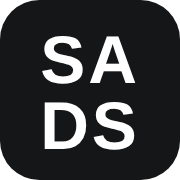
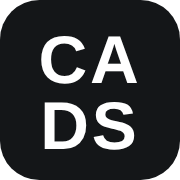
Nuevo nombre: CADS · Centro de Atención de Solicitudes
Título, acróstico del login, encabezado, ícono CA/DS (SVG, PNG e ICO), manifiesto de la app,
sugerencia de instalación, README y guion de los videos.

Claude-Session: https://claude.ai/code/session_012YEYniGMLC45RanscBTHrE

diff --git a/web/js/instalar.js b/web/js/instalar.js
@@ -1,6 +1,6 @@
-// Sugerencia «Instalar SADS»: Chrome/Edge (Android y computadora) muestran su instalador; en iPhone/iPad
+// Sugerencia «Instalar CADS»: Chrome/Edge (Android y computadora) muestran su instalador; en iPhone/iPad
 // se explican los pasos de Safari (Apple no permite el botón). Si la persona dice «Ahora no», vuelve en 30 días.
-const CLAVE = 'sads:instalar-pospuesto';
+const CLAVE = 'cads:instalar-pospuesto';
 const DIAS = 30;
 let evento = null;            // beforeinstallprompt guardado para usarlo cuando la persona toque «Instalar»
 let alAparecer = null;
@@ -28,7 +28,7 @@ export function sugerirInstalacion() {
   const pintar = (html, alInstalar) => {
     quitar();
     const caja = document.createElement('aside');
-    caja.id = 'sugerir-instalar'; caja.className = 'sugerir-instalar'; caja.setAttribute('role', 'dialog'); caja.setAttribute('aria-label', 'Instalar SADS');
+    caja.id = 'sugerir-instalar'; caja.className = 'sugerir-instalar'; caja.setAttribute('role', 'dialog'); caja.setAttribute('aria-label', 'Instalar CADS');
     caja.innerHTML = `${LOGO}<div class="si-texto">${html}</div>
       <div class="si-botones">${alInstalar ? '<button class="btn btn-chico" id="si-instalar">Instalar</button>' : ''}<button class="btn btn-sec btn-chico" id="si-no">${alInstalar ? 'Ahora no' : 'Entendido'}</button></div>`;
     document.body.appendChild(caja);
@@ -37,7 +37,7 @@ export function sugerirInstalacion() {
   };
   if (evento) {
     const movil = matchMedia('(pointer: coarse)').matches;
-    pintar(`<b>Instala SADS</b><span>${movil ? 'Tenlo en tu pantalla de inicio y ábrelo con un toque, como una app.' : 'Ábrelo desde tu escritorio o barra de tareas, como un programa.'}</span>`, async () => {
+    pintar(`<b>Instala CADS</b><span>${movil ? 'Tenlo en tu pantalla de inicio y ábrelo con un toque, como una app.' : 'Ábrelo desde tu escritorio o barra de tareas, como un programa.'}</span>`, async () => {
       const e = evento; evento = null;
       e.prompt();
       const r = await e.userChoice.catch(() => ({ outcome: 'dismissed' }));
@@ -45,7 +45,7 @@ export function sugerirInstalacion() {
       quitar();
     });
   } else if (esIOS() && esSafari()) {
-    pintar(`<b>Agrega SADS a tu pantalla de inicio</b><span>Toca ${COMPARTIR} <b>Compartir</b> abajo y luego <b>«Agregar a pantalla de inicio»</b>.</span>`, null);
+    pintar(`<b>Agrega CADS a tu pantalla de inicio</b><span>Toca ${COMPARTIR} <b>Compartir</b> abajo y luego <b>«Agregar a pantalla de inicio»</b>.</span>`, null);
   } else {
     alAparecer = () => { alAparecer = null; sugerirInstalacion(); };   // Chrome avisa un poco después de cargar
   }

diff --git a/web/styles.css b/web/styles.css
@@ -1,4 +1,4 @@
-/* SADS · Sistema de Atención de Solicitudes (Prosein · Austral · Mil Cerámicas).
+/* CADS · Centro de Atención de Solicitudes (Prosein · Austral · Mil Cerámicas).
    Marca en negro (neutral para las tres empresas); el rojo queda solo para errores y rechazos. */
 :root {
   --marca: #141618; --marca-hondo: #000000; --marca-2: #2A2D31; --marca-velo: #ECEDEE;
@@ -144,7 +144,7 @@ dialog form { display: grid; gap: var(--s4); }
 @keyframes brillo { 0% { background-position: 100% 50%; } 100% { background-position: 0 50%; } }
 @media (prefers-reduced-motion: reduce) { .esq-tarjeta span { animation: none; } }
 
-/* ================= SADS: encabezado, entrada y vista de computadora ================= */
+/* ================= CADS: encabezado, entrada y vista de computadora ================= */
 .marca b { display: block; font-size: 20px; letter-spacing: .12em; }
 .marca small { font-weight: 400; opacity: .7; letter-spacing: 0; }
 .cabecera-der { display: flex; align-items: center; gap: var(--s3); }
@@ -211,11 +211,11 @@ body.en-entrada .contenedor { max-width: none; padding: 0; margin: 0; }
 .pestanas .lateral-titulo { display: none; }
 @media (min-width: 1024px) { .layout .pestanas .lateral-titulo { display: block; } }
 
-/* ---- Logo del sistema (SA/DS) ---- */
+/* ---- Logo del sistema (CA/DS) ---- */
 .marca { display: flex; align-items: center; gap: var(--s3); }
 .marca-logo { width: 36px; height: 36px; border-radius: 9px; flex: none; }
 
-/* ---- Sugerencia «Instalar SADS» ---- */
+/* ---- Sugerencia «Instalar CADS» ---- */
 .sugerir-instalar { position: fixed; z-index: 20; left: var(--s3); right: var(--s3); bottom: calc(var(--s3) + env(safe-area-inset-bottom));
   display: grid; grid-template-columns: auto 1fr; gap: var(--s3); align-items: center; background: #fff; border: 1px solid var(--linea);
   border-radius: var(--radio); padding: var(--s4); box-shadow: 0 12px 40px rgb(20 22 24 / .18); animation: subir 260ms var(--ease); }

diff --git a/web/index.html b/web/index.html
@@ -5,12 +5,12 @@
   <meta name="viewport" content="width=device-width, initial-scale=1, viewport-fit=cover">
   <meta name="theme-color" content="#141618">
   <meta name="robots" content="noindex">
-  <title>SADS · Sistema de Atención de Solicitudes</title>
+  <title>CADS · Centro de Atención de Solicitudes</title>
   <link rel="icon" href="assets/favicon.svg" type="image/svg+xml">
   <link rel="icon" href="assets/favicon-32.png" sizes="32x32" type="image/png">
   <link rel="apple-touch-icon" href="assets/apple-touch-icon.png">
   <link rel="manifest" href="manifest.webmanifest">
-  <meta name="apple-mobile-web-app-title" content="SADS">
+  <meta name="apple-mobile-web-app-title" content="CADS">
   <link rel="preconnect" href="https://fonts.googleapis.com">
   <link rel="preconnect" href="https://fonts.gstatic.com" crossorigin>
   <link rel="stylesheet" href="https://fonts.googleapis.com/css2?family=Poppins:wght@400;500;600;700&display=swap">
@@ -24,7 +24,7 @@
 <body>
   <header class="cabecera">
     <div class="cabecera-in">
-      <div class="marca"><img class="marca-logo" src="assets/logo-sads-claro.svg" alt="" width="36" height="36"><div><b>SADS</b><small>Sistema de Atención de Solicitudes</small></div></div>
+      <div class="marca"><img class="marca-logo" src="assets/logo-cads-claro.svg" alt="" width="36" height="36"><div><b>CADS</b><small>Centro de Atención de Solicitudes</small></div></div>
       <div class="cabecera-der"><span id="usuario" class="usuario"></span><button id="btn-salir" class="btn-salir" type="button" hidden>Salir</button></div>
     </div>
   </header>

diff --git a/web/js/app.js b/web/js/app.js
@@ -48,11 +48,11 @@ function vistaLogin() {
     <div class="entrada">
       <section class="entrada-marca">
         <div>
-          <div class="sigla">SADS</div>
-          <p class="nombre">Sistema de Atención de Solicitudes</p>
+          <div class="sigla">CADS</div>
+          <p class="nombre">Centro de Atención de Solicitudes</p>
         </div>
-        <div class="acrostico" role="img" aria-label="SADS: Sistema de Atención de Solicitudes">
-          <p><b>S</b>istema<span class="de">de</span></p><p><b>A</b>tención</p><p><b>D</b>e</p><p><b>S</b>olicitudes</p>
+        <div class="acrostico" role="img" aria-label="CADS: Centro de Atención de Solicitudes">
+          <p><b>C</b>entro<span class="de">de</span></p><p><b>A</b>tención</p><p><b>D</b>e</p><p><b>S</b>olicitudes</p>
         </div>
         <p class="empresas">Prosein · Austral · Mil Cerámicas — Gestión Humana</p>
       </section>

diff --git a/web/sw.js b/web/sw.js
@@ -1,6 +1,6 @@
-// Service worker de SADS: permite instalar el sitio como app. Siempre pide la versión nueva a la red
+// Service worker de CADS: permite instalar el sitio como app. Siempre pide la versión nueva a la red
 // (así nunca se queda una versión vieja) y solo usa la copia guardada si no hay conexión.
-const CACHE = 'sads-v1';
+const CACHE = 'cads-v1';
 self.addEventListener('install', () => self.skipWaiting());
 self.addEventListener('activate', (e) => e.waitUntil(clients.claim()));
 self.addEventListener('fetch', (e) => {

diff --git a/docs/videos/GUION-VIDEOS-CADS.md b/docs/videos/GUION-VIDEOS-CADS.md
@@ -1,8 +1,8 @@
-# Guion · Videos explicativos de SADS
+# Guion · Videos explicativos de CADS
 
 Cuatro videos de motion graphics para los colaboradores:
 
-1. **SADS en general** (unos 2 minutos)
+1. **CADS en general** (unos 2 minutos)
 2. **Constancia de trabajo** (unos 2 minutos)
 3. **Vacaciones** (unos 3 minutos; incluye la parte del jefe directo)
 4. **Fideicomiso: anticipos** (unos 2½ minutos)
@@ -11,26 +11,26 @@ Cuatro videos de motion graphics para los colaboradores:
 - Copia **solo el bloque «Texto para la voz»** de cada video. Las etiquetas entre corchetes son la emoción con la que debe sonar la frase que sigue: `[tranquilo]`, `[cálido]`, `[serio]`, `[con energía]`, `[animado]`, `[claro y pausado]`, `[con una sonrisa]` y `[pausa corta]`.
 - Genera **un audio por video**. Así es más fácil cortarlo por escenas.
 - **Pronunciación:**
-  - Escribí «Sads» en vez de «SADS» para que no lo deletree ni lo lea en inglés. Si aun así suena raro, prueba con «Sáds».
+  - Escribí «Cads» en vez de «CADS» para que no lo deletree ni lo lea en inglés. Si aun así suena raro, prueba con «Cáds».
   - Los números van en letras para que los lea bien.
 - **Tono:** corporativo, cercano y sin exagerar. Voz recomendada: adulta y clara, de ritmo medio.
 - Debajo de cada texto está el **mapa de escenas**, con lo que se ve en pantalla. Es la guía para cortar el audio y armar las animaciones.
 
 ---
 
-## Video 1 · SADS en general
+## Video 1 · CADS en general
 
 ### Texto para la voz
 
-[cálido] Hola. Te damos la bienvenida a Sads, el Sistema de Atención de Solicitudes de Gestión Humana de Prosein, Austral y Mil Cerámicas.
+[cálido] Hola. Te damos la bienvenida a Cads, el Centro de Atención de Solicitudes de Gestión Humana de Prosein, Austral y Mil Cerámicas.
 
 [tranquilo] A partir de ahora, muchas de las cosas que antes pedías por correo, por mensaje o en papel, las haces tú, desde tu celular o tu computadora, a la hora que te quede mejor.
 
-[serio] ¿Qué puedes hacer en Sads? [pausa corta] Tres cosas.
+[serio] ¿Qué puedes hacer en Cads? [pausa corta] Tres cosas.
 
 [con energía] Uno: descargar tu constancia de trabajo al instante. [pausa corta] Dos: solicitar tus vacaciones y seguir su aprobación paso a paso. [pausa corta] Tres: solicitar un anticipo de tu fideicomiso cuando la solicitud esté abierta.
 
-[tranquilo] Entrar es muy sencillo. Abre el enlace de Sads que te compartió Gestión Humana. Escribe tu número de cédula, solo los números, sin puntos y sin letras, y toca Entrar.
+[tranquilo] Entrar es muy sencillo. Abre el enlace de Cads que te compartió Gestión Humana. Escribe tu número de cédula, solo los números, sin puntos y sin letras, y toca Entrar.
 
 [cálido] No necesitas contraseña. Nada que recordar, nada que recuperar.
 
@@ -38,7 +38,7 @@ Cuatro videos de motion graphics para los colaboradores:
 
 [cálido] Al entrar verás un saludo con tu nombre y tres tarjetas: Constancia de trabajo, Vacaciones y Fideicomiso. Toca la que necesites y el sistema te guía.
 
-[tranquilo] Si lo abres desde el celular, Sads te va a sugerir instalarlo en tu pantalla de inicio. Acepta. Así lo tienes a un toque, como cualquier otra aplicación.
+[tranquilo] Si lo abres desde el celular, Cads te va a sugerir instalarlo en tu pantalla de inicio. Acepta. Así lo tienes a un toque, como cualquier otra aplicación.
 
 [animado] ¿Tienes personas a tu cargo? Entonces verás también la sección Mi equipo, donde apruebas las vacaciones de tu gente.
 
@@ -46,12 +46,12 @@ Cuatro videos de motion graphics para los colaboradores:
 
 [serio] Y si algo no cuadra, por ejemplo, el sistema no encuentra tu cédula o tus días de vacaciones no coinciden, comunícate con Gestión Humana. [cálido] Estamos para ayudarte.
 
-[con una sonrisa] Sads: menos papeles, menos esperas y tus solicitudes siempre a la vista. [tranquilo] En los próximos videos te mostramos cada módulo, paso a paso.
+[con una sonrisa] Cads: menos papeles, menos esperas y tus solicitudes siempre a la vista. [tranquilo] En los próximos videos te mostramos cada módulo, paso a paso.
 
 ### Mapa de escenas
 | # | Frase de inicio | En pantalla |
 |---|---|---|
-| 1 | «Hola. Te damos la bienvenida…» | Fondo negro y aparece SADS en acróstico: **S**istema · **A**tención · **D**e · **S**olicitudes. Debajo: Prosein · Austral · Mil Cerámicas. |
+| 1 | «Hola. Te damos la bienvenida…» | Fondo negro y aparece CADS en acróstico: **C**entro · **A**tención · **D**e · **S**olicitudes. Debajo: Prosein · Austral · Mil Cerámicas. |
 | 2 | «A partir de ahora…» | Íconos de correo, chat y papel que se transforman en un celular y una laptop. |
 | 3 | «¿Qué puedes hacer…?» | Número 3 grande. |
 | 4 | «Uno: descargar…» | Entran las 3 tarjetas una por una: Constancia, Vacaciones, Fideicomiso. |
@@ -59,11 +59,11 @@ Cuatro videos de motion graphics para los colaboradores:
 | 6 | «No necesitas contraseña…» | Candado tachado y un check. |
 | 7 | «Tu cédula es tu llave…» | Llave con forma de cédula y el texto «Cada entrada queda registrada». |
 | 8 | «Al entrar verás…» | Inicio: «Bienvenido, [nombre]…» con las 3 tarjetas. |
-| 9 | «Si lo abres desde el celular…» | Celular con el aviso «Instalar SADS» y el ícono SA/DS en la pantalla de inicio. |
+| 9 | «Si lo abres desde el celular…» | Celular con el aviso «Instalar CADS» y el ícono CA/DS en la pantalla de inicio. |
 | 10 | «¿Tienes personas a tu cargo?» | Menú lateral y aparece «Mi equipo» con un contador. |
 | 11 | «Cuando termines…» | Botón **Salir** resaltado. |
 | 12 | «Y si algo no cuadra…» | Texto «Gestión Humana» con ícono de ayuda. |
-| 13 | «Sads: menos papeles…» | Logo SA/DS y el texto «Próximos videos: Constancia · Vacaciones · Fideicomiso». |
+| 13 | «Cads: menos papeles…» | Logo CA/DS y el texto «Próximos videos: Constancia · Vacaciones · Fideicomiso». |
 
 ---
 
@@ -71,9 +71,9 @@ Cuatro videos de motion graphics para los colaboradores:
 
 ### Texto para la voz
 
-[cálido] ¿Necesitas una constancia de trabajo? En Sads la tienes en menos de un minuto. Te mostramos cómo.
+[cálido] ¿Necesitas una constancia de trabajo? En Cads la tienes en menos de un minuto. Te mostramos cómo.
 
-[claro y pausado] Paso uno. Entra a Sads con tu cédula.
+[claro y pausado] Paso uno. Entra a Cads con tu cédula.
 
 [claro y pausado] Paso dos. En el inicio, toca la tarjeta Constancia de trabajo.
 
@@ -109,7 +109,7 @@ Cuatro videos de motion graphics para los colaboradores:
 | 9 | «¿La perdiste…?» | Botón **Descargar mi constancia vigente**. |
 | 10 | «En la sección Mis constancias…» | Lista con emisión y vencimiento. |
 | 11 | «Si necesitas una antes…» | Constancia que pasa a «Anulada» y luego una nueva. |
-| 12 | «Así de fácil…» | Cierre con el logo SA/DS. |
+| 12 | «Así de fácil…» | Cierre con el logo CA/DS. |
 
 ---
 
@@ -117,9 +117,9 @@ Cuatro videos de motion graphics para los colaboradores:
 
 ### Texto para la voz
 
-[cálido] Planificar tus vacaciones ahora es más fácil. En este video te mostramos cómo solicitarlas en Sads, y cómo las aprueba tu jefe directo.
+[cálido] Planificar tus vacaciones ahora es más fácil. En este video te mostramos cómo solicitarlas en Cads, y cómo las aprueba tu jefe directo.
 
-[claro y pausado] Paso uno. Entra a Sads con tu cédula y toca la tarjeta Vacaciones.
+[claro y pausado] Paso uno. Entra a Cads con tu cédula y toca la tarjeta Vacaciones.
 
 [tranquilo] Lo primero que vas a ver son tus días de vacaciones pendientes. Son los días hábiles que tienes por disfrutar. Más abajo, en Mis días por período, ves el detalle de cada año: cuántos días te corresponden, cuántos disfrutaste y cuántos te quedan.
 
@@ -131,7 +131,7 @@ Cuatro videos de motion graphics para los colaboradores:
 
 [claro y pausado] Paso tres. Escribe cuántos días hábiles quieres disfrutar.
 
-[tranquilo] Solo se cuentan los días hábiles, es decir, sin fines de semana y sin feriados. Al instante, Sads te muestra tu último día de vacaciones y el día en que te reintegras al trabajo.
+[tranquilo] Solo se cuentan los días hábiles, es decir, sin fines de semana y sin feriados. Al instante, Cads te muestra tu último día de vacaciones y el día en que te reintegras al trabajo.
 
 [serio] Recuerda que no puedes pedir más días de los que tienes pendientes. No se adelantan días.
 
@@ -179,7 +179,7 @@ Cuatro videos de motion graphics para los colaboradores:
 | 17 | «Luego, Gestión Humana registra…» | Etiqueta «Registrada». |
 | 18 | «Si una solicitud es rechazada…» | Etiqueta «Rechazada» y los días que regresan. |
 | 19 | «Un detalle importante…» | Aviso: «No tienes jefe directo asignado…». |
-| 20 | «Tus días, tus fechas…» | Cierre con el logo SA/DS. |
+| 20 | «Tus días, tus fechas…» | Cierre con el logo CA/DS. |
 
 ---
 
@@ -187,17 +187,17 @@ Cuatro videos de motion graphics para los colaboradores:
 
 ### Texto para la voz
 
-[cálido] Tu fideicomiso de prestaciones sociales es un respaldo para momentos importantes: tu vivienda, tu salud o tu educación. En este video te explicamos cómo solicitar un anticipo en Sads.
+[cálido] Tu fideicomiso de prestaciones sociales es un respaldo para momentos importantes: tu vivienda, tu salud o tu educación. En este video te explicamos cómo solicitar un anticipo en Cads.
 
 [serio] Primero, lo más importante: la solicitud de anticipos no está abierta todo el tiempo. [tranquilo] Gestión Humana la abre una vez por trimestre, con una fecha de inicio y una fecha final. Solo en esas fechas puedes enviar tu solicitud.
 
-[tranquilo] Si entras cuando la solicitud está cerrada, Sads te avisa y te muestra cuándo es la próxima apertura.
+[tranquilo] Si entras cuando la solicitud está cerrada, Cads te avisa y te muestra cuándo es la próxima apertura.
 
-[claro y pausado] Paso uno. Antes de entrar a Sads, ingresa a la página de tu banco y revisa el monto disponible de tu fideicomiso.
+[claro y pausado] Paso uno. Antes de entrar a Cads, ingresa a la página de tu banco y revisa el monto disponible de tu fideicomiso.
 
-[serio] Este paso es clave. Sads no muestra tu saldo. El monto que pidas lo envías bajo tu responsabilidad, y si es mayor a tu disponible, el banco rechazará la solicitud.
+[serio] Este paso es clave. Cads no muestra tu saldo. El monto que pidas lo envías bajo tu responsabilidad, y si es mayor a tu disponible, el banco rechazará la solicitud.
 
-[claro y pausado] Paso dos. Entra a Sads con tu cédula y toca la tarjeta Fideicomiso.
+[claro y pausado] Paso dos. Entra a Cads con tu cédula y toca la tarjeta Fideicomiso.
 
 [claro y pausado] Paso tres. Escribe el monto que quieres solicitar, en bolívares.
 
@@ -217,7 +217,7 @@ Cuatro videos de motion graphics para los colaboradores:
 
 [cálido] En la sección Mis solicitudes tienes siempre el historial de tus anticipos, con su monto, su motivo y su estado.
 
-[con una sonrisa] Revisa en tu banco, solicita en Sads y sigue tu anticipo desde tu celular. Así de simple.
+[con una sonrisa] Revisa en tu banco, solicita en Cads y sigue tu anticipo desde tu celular. Así de simple.
 
 ### Mapa de escenas
 | # | Frase de inicio | En pantalla |
@@ -237,4 +237,4 @@ Cuatro videos de motion graphics para los colaboradores:
 | 13 | «Cuando el banco la procesa…» | Etiqueta verde «Pagada». |
 | 14 | «Si el banco la rechaza…» | Etiqueta «Rechazada» con «Motivo: …» y un calendario hacia la próxima apertura. |
 | 15 | «En la sección Mis solicitudes…» | Lista del historial. |
-| 16 | «Revisa en tu banco…» | Tres íconos en línea (banco → SADS → check) y el logo SA/DS. |
+| 16 | «Revisa en tu banco…» | Tres íconos en línea (banco → CADS → check) y el logo CA/DS. |

diff --git a/README.md b/README.md
@@ -1,4 +1,4 @@
-# SADS · Sistema de Atención de Solicitudes (Gestión Humana · Prosein, Austral y Mil Cerámicas)
+# CADS · Centro de Atención de Solicitudes (Gestión Humana · Prosein, Austral y Mil Cerámicas)
 
 Sistema de recursos humanos: aporte trimestral al fideicomiso y portal del trabajador.
 
